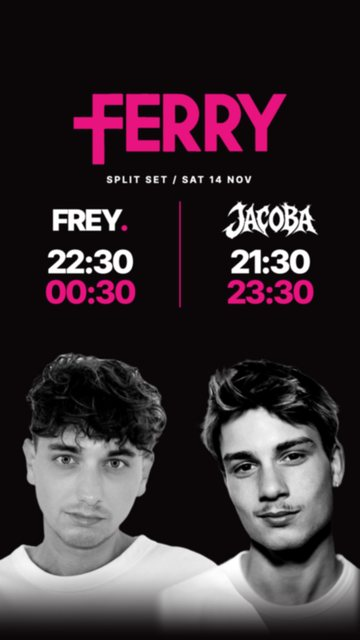
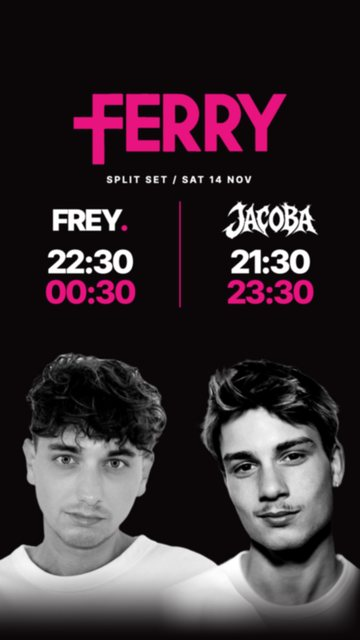
FREYcraft: Fade sides slider so the T-shirts blend into each other

Changed region(s): [[0.9167, 0.875, 1.0, 0.9688], [0.4278, 0.9375, 0.4889, 0.9688]]

diff --git a/FREYcraft/index.html b/FREYcraft/index.html
@@ -125,9 +125,10 @@ main{flex:1;display:flex;align-items:center;justify-content:center;position:rela
     <label class="row">Tighten <input type="range" id="ps-shrink" min="0" max="6"><span class="val" id="ps-shrink-v"></span></label>
     <label class="row">Soften <input type="range" id="ps-soften" min="0" max="6"><span class="val" id="ps-soften-v"></span></label>
     <label class="row">Fade bottom <input type="range" id="ps-fade" min="0" max="100"><span class="val" id="ps-fade-v"></span></label>
+    <label class="row">Fade sides <input type="range" id="ps-side" min="0" max="100"><span class="val" id="ps-side-v"></span></label>
     <label class="row">Outline <input type="range" id="ps-outline" min="0" max="28"><span class="val" id="ps-outline-v"></span></label>
     <div class="swatches" id="oc" style="margin-top:4px"></div>
-    <p class="hint" style="margin-top:6px">Fade bottom hides the hard crop edge on Jacoba's T-shirt. Outline gives the sticker look.</p>
+    <p class="hint" style="margin-top:6px">Fade sides lets the two T-shirts melt into each other. Fade bottom softens the shirts at the bottom. Outline gives the sticker look.</p>
   </section>
 
   <section>
@@ -214,7 +215,7 @@ main{flex:1;display:flex;align-items:center;justify-content:center;position:rela
 <script>
 const PINK='#e8137f', INK='#0b0709', PURPLE='#7a1fd6', W=1080, H=1920;
 const stage=document.getElementById('stage'), layer=document.getElementById('layer'), bg=document.getElementById('bg'), wrap=document.getElementById('wrap');
-const KEY='splitset-editor-v6';
+const KEY='splitset-editor-v7';
 
 /* ---------------- assets ---------------- */
 const PHOTO={
@@ -251,7 +252,7 @@ const PRESETS={
 };
 
 /* ---------------- photo filter ---------------- */
-const PS_DEFAULT={mode:'cmyk',dot:6,angle:45,contrast:20,bright:-6,shrink:1,soften:1,fade:0,outline:0,oc:'#ffffff'};
+const PS_DEFAULT={mode:'cmyk',dot:6,angle:45,contrast:20,bright:-6,shrink:1,soften:1,fade:0,side:45,outline:0,oc:'#ffffff'};
 function minMax(A,w,h,r,isMax){
   if(r<=0) return A; let T=new Float32Array(A.length), O=new Float32Array(A.length);
   for(let y=0;y<h;y++){const o=y*w; for(let x=0;x<w;x++){let v=isMax?0:1; for(let k=-r;k<=r;k++){const xx=x+k; if(xx<0||xx>=w) continue; const a=A[o+xx]; v=isMax?(a>v?a:v):(a<v?a:v);} T[o+x]=v;}}
@@ -292,6 +293,11 @@ function processPhoto(who,outW,P,o){
   { // soften the photo's own crop edges (left, right, bottom) so no straight cut lines show
     const fb=Math.max(8,Math.round(0.07*Math.min(ow,oh)));
     for(let y=0;y<h;y++) for(let xx=0;xx<w;xx++){ const dx=Math.min(xx-pad,ow+pad-1-xx), dy=oh+pad-1-y; const d=Math.min(dx,dy); if(d<fb){ const k=Math.max(0,d)/fb; A[y*w+xx]*=k*k*(3-2*k); } }
+  }
+  if(P.side>0){ // fade the shoulders/T-shirt towards the left and right edges, below the chin only
+    const f=meta.face*sc, y0=pad+meta.chin*sc-0.1*f, yr=0.5*f, band=Math.max(10,(P.side/100)*0.42*ow);
+    for(let y=0;y<h;y++){ const vy=Math.min(1,Math.max(0,(y-y0)/yr)); if(vy<=0) continue; const v=vy*vy*(3-2*vy);
+      for(let xx=0;xx<w;xx++){ const dx=Math.min(xx-pad,ow+pad-1-xx); if(dx>=band) continue; const k=Math.max(0,dx)/band; const m=k*k*(3-2*k); A[y*w+xx]*=1-v*(1-m); } }
   }
   if(P.fade>0){ // bottom fade starting below the chin
     const t=P.fade/100, f=meta.face*sc, y0=pad+meta.chin*sc+(1-t)*1.1*f, len=0.6*f;
@@ -548,8 +554,8 @@ TEMPLATES.forEach((t,i)=>{const b=document.createElement('button'); b.className=
 const pre=document.getElementById('presets');
 Object.entries(PRESETS).forEach(([k,v])=>{const b=document.createElement('button'); b.textContent=v.name; b.dataset.k=k; b.onclick=()=>{S.preset=k; save(); render();}; pre.appendChild(b);});
 
-const PSF=['dot','angle','contrast','bright','shrink','soften','fade','outline'];
-const unit={dot:'px',angle:'°',contrast:'',bright:'',shrink:'px',soften:'px',fade:'%',outline:'px'};
+const PSF=['dot','angle','contrast','bright','shrink','soften','fade','side','outline'];
+const unit={dot:'px',angle:'°',contrast:'',bright:'',shrink:'px',soften:'px',fade:'%',side:'%',outline:'px'};
 function syncPS(){
   document.getElementById('ps-mode').value=S.ps.mode;
   PSF.forEach(k=>{document.getElementById('ps-'+k).value=S.ps[k]; document.getElementById('ps-'+k+'-v').textContent=S.ps[k]+unit[k];});
